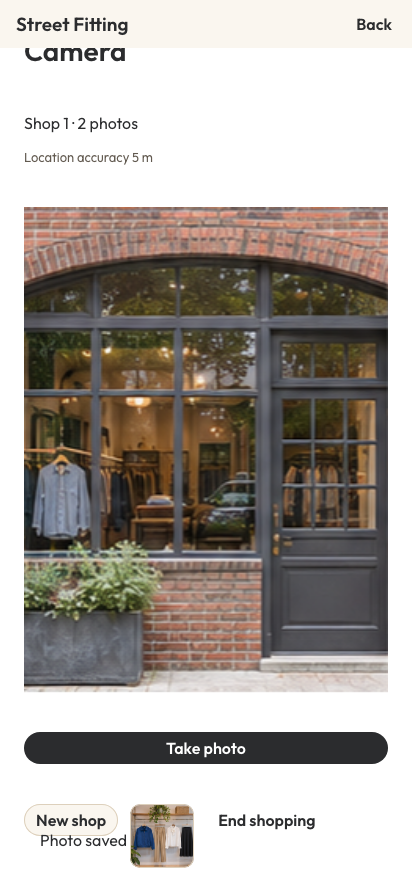
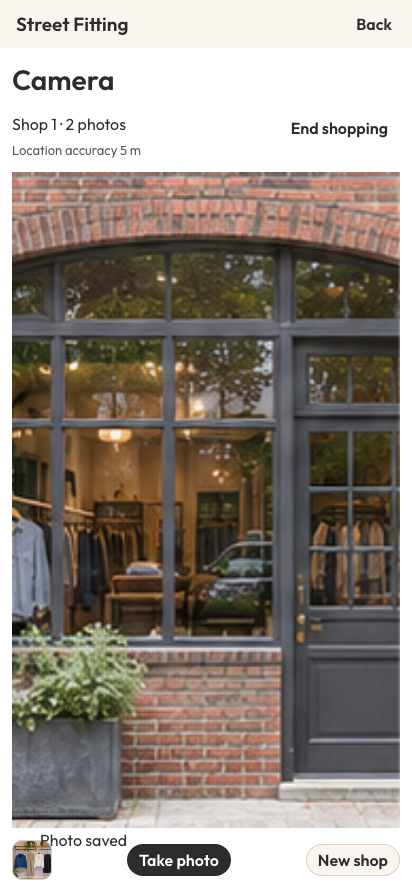
Keep camera shutter on screen and record human-gate scope exclusion

diff --git a/app/src/screens/Shopping.tsx b/app/src/screens/Shopping.tsx
@@ -2,7 +2,7 @@ import {useEffect,useRef,useState} from 'react';
 import type {Route} from '../ui/navigation';
 import type {Photo,Shop} from '../native/contracts';
 import {useUi,useData,listAll} from '../ui/state';
-import {Action,Button,Confirm,EditFields,Empty,HStack,Loading,PhotoView,Problem,Section,Text,Thumbnail,VStack} from '../ui/components';
+import {Action,Button,Confirm,EditFields,Empty,Heading,HStack,Loading,PhotoView,Problem,Section,Text,Thumbnail,VStack} from '../ui/components';
 
 function failureCode(error:unknown):string {
   return typeof error==='object'&&error!==null&&'code'in error?String(error.code):'unknown';
@@ -111,12 +111,16 @@ export function Capture({route}:{route:Extract<Route,{name:'capture'}>}) {
     return()=>{active=false;observer?.disconnect();window.removeEventListener('resize',resize);window.removeEventListener('scroll',resize,true);void withCamera(()=>services.capture.closePreview()).catch(()=>{});ancestors.forEach((element,index)=>{element.style.background=backgrounds[index];});};
   },[services,purpose,route.purpose,route.shopId,attempt,recording]);
   if(purpose==='shopping'&&session&&session.phase!=='recording')return <Empty title="Shopping mode is off"><Text>Start shopping from Home before taking shop photos.</Text><Button label="Home" onClick={()=>popTo('home')}/></Empty>;
-  return <>
-    <VStack gap={3}>{purpose==='shopping'?<><Text>Shop {session?.shop?.n??'—'} · {session?.photos??0} photos</Text><Text type="supporting">{session?.latestFix?`Location accuracy ${Math.round(session.latestFix.accuracyM)} m`:'Waiting for location…'}</Text></>:<Text>{purpose==='self'?'Stand back so your full body is visible. Your original photo stays on this device.':purpose==='storefront'?'Fit the whole shop front in the frame. Taking this photo uses your current location once; it does not start a shopping trail.':'Photograph one wardrobe piece.'}</Text>}</VStack>
-    <VStack ref={view} role="img" aria-label="Camera preview" width="100%" minHeight="45dvh" style={{background:'transparent',aspectRatio:'3 / 4',position:'relative'}}/>
-    {error?<Problem message={error==='camera_permission_denied'?'Camera access is off. Allow access in device settings, then try again.':'The camera preview could not start. Try again or return to your saved photos.'} retry={()=>setAttempt(value=>value+1)}/>:!ready?<Loading/>:null}
-    {purpose==='shopping'&&banner&&session?.shop&&<Section title={`Shop ${session.shop.n} started`}><Text>This spot is saved.</Text><HStack gap={3} wrap="wrap"><Button label="Storefront photo" variant="secondary" onClick={()=>setStorefront(true)}/><Button label="Add note" variant="secondary" onClick={()=>showSheet({title:`Note for Shop ${session.shop!.n}`,content:<EditFields label={session.shop?.note??''} onSave={note=>services.store.updateShop({id:session.shop!.id,note:note||null})}/>})}/><Button label="Dismiss" variant="ghost" onClick={()=>setBanner(false)}/></HStack></Section>}
-    {storefront&&<Text>Fit the whole shop front in the frame</Text>}
+  return <VStack gap={3} minHeight={0} style={{flex:1}}>
+    <VStack gap={3} minHeight={0} isScrollable style={{flex:1}}>
+      {purpose==='shopping'?<HStack gap={3} hAlign="between" vAlign="start" wrap="wrap"><VStack gap={1}><Text>Shop {session?.shop?.n??'—'} · {session?.photos??0} photos</Text><Text type="supporting">{session?.latestFix?`Location accuracy ${Math.round(session.latestFix.accuracyM)} m`:'Waiting for location…'}</Text></VStack><EndShopping/></HStack>:<Text>{purpose==='self'?'Stand back so your full body is visible. Your original photo stays on this device.':purpose==='storefront'?'Fit the whole shop front in the frame. Taking this photo uses your current location once; it does not start a shopping trail.':'Photograph one wardrobe piece.'}</Text>}
+      {purpose==='shopping'&&banner&&session?.shop&&<VStack gap={2}><Heading level={2}>Shop {session.shop.n} started</Heading><Text>This spot is saved.</Text><HStack gap={2} wrap="wrap"><Button label="Storefront photo" variant="secondary" onClick={()=>setStorefront(true)}/><Button label="Add note" variant="secondary" onClick={()=>showSheet({title:`Note for Shop ${session.shop!.n}`,content:<EditFields label={session.shop?.note??''} onSave={note=>services.store.updateShop({id:session.shop!.id,note:note||null})}/>})}/><Button label="Dismiss" variant="ghost" onClick={()=>setBanner(false)}/></HStack></VStack>}
+      {storefront&&<Text>Fit the whole shop front in the frame</Text>}
+      <VStack ref={view} role="img" aria-label="Camera preview" width="100%" minHeight="25dvh" style={{background:'transparent',position:'relative',flex:1}}/>
+      {error?<Problem message={error==='camera_permission_denied'?'Camera access is off. Allow access in device settings, then try again.':'The camera preview could not start. Try again or return to your saved photos.'} retry={()=>setAttempt(value=>value+1)}/>:!ready?<Loading/>:null}
+    </VStack>
+    <HStack role="group" aria-label="Camera controls" gap={2} hAlign="between" vAlign="center" wrap="wrap" style={{flexShrink:0,background:'var(--color-surface)'}}>
+    {purpose==='shopping'&&!storefront&&latest&&<Thumbnail src={latest.file} alt="Latest captured garment" label="Latest photo" style={{width:'var(--spacing-10)',height:'var(--spacing-10)'}} onClick={()=>push({name:'pick',photoId:latest.id,mode:'shop'})}/>}
     <Action label={storefront||purpose==='storefront'?'Capture storefront':purpose==='self'?'Use this photo':'Take photo'} disabled={!ready||Boolean(error)} run={async()=>{
       const {asset,photo}=await withCamera(()=>services.capture.takePhoto({kind:storefront||purpose==='storefront'?'storefront':'item'}));
       if(!active.current){if(purpose==='self'||purpose==='wardrobe')await services.media.discard({assetId:asset.id});return;}
@@ -128,5 +132,7 @@ export function Capture({route}:{route:Extract<Route,{name:'capture'}>}) {
       else if(purpose==='storefront'){say('Storefront saved');back();}
       else{if(photo?.kind==='item')setLast(photo);setStorefront(false);if(!storefront)setBanner(false);say(storefront?'Storefront saved':'Photo saved');}
     }}/>
-    {storefront?<Button label="Cancel storefront" variant="ghost" onClick={()=>setStorefront(false)}/>:purpose==='shopping'?<HStack gap={3} wrap="wrap"><Action label="New shop" variant="secondary" run={async()=>{await services.shopping.newShop();setBanner(true);}}/>{latest&&<Thumbnail src={latest.file} alt="Latest captured garment" label="Latest photo" onClick={()=>push({name:'pick',photoId:latest.id,mode:'shop'})}/>}<EndShopping/></HStack>:<Button label="Cancel" variant="ghost" onClick={back}/>}</>;
+    {storefront?<Button label="Cancel storefront" variant="ghost" onClick={()=>setStorefront(false)}/>:purpose==='shopping'?<Action label="New shop" variant="secondary" run={async()=>{await services.shopping.newShop();setBanner(true);}}/>:<Button label="Cancel" variant="ghost" onClick={back}/>}
+    </HStack>
+  </VStack>;
 }

diff --git a/app/src/ui/browser-scenarios.ts b/app/src/ui/browser-scenarios.ts
@@ -23,14 +23,25 @@ export async function runBrowserScenario(scenario:'full'|'states',url:string,out
   let failure:string|null=null;
   const button=(name:string|RegExp)=>page.getByRole('button',{name,exact:typeof name==='string'}).first();
   async function click(name:string|RegExp){await button(name).click();}
+  async function captureControls(state:string){
+    const original=page.viewportSize()!;
+    const shutter=page.getByRole('group',{name:'Camera controls'}).getByRole('button',{name:/^(Take photo|Capture storefront|Use this photo)$/});
+    await expect(shutter).toBeInViewport({ratio:1});
+    await page.setViewportSize({width:360,height:640});
+    await expect(shutter).toBeInViewport({ratio:1});
+    await page.setViewportSize(original);
+    matrix.push({route:'capture',state,passed:true});
+  }
   async function route(name:string,exerciseOffline=true){
     await expect(page.locator(`[data-route="${name}"]`)).toBeVisible();
     await expect.poll(async()=>(await inspect(page)).route).toBe(name);
     routes.add(name);matrix.push({route:name,state:'normal',passed:true});
     await expect(page.getByRole('button',{name:/^(Demo|Walk a step|Go off route|Download result)$/})).toHaveCount(0);
+    if(name==='capture')await captureControls('shutter-visible-without-scroll');
     if(scenario==='states'&&exerciseOffline){
       await context.setOffline(true);
       await expect(page.getByText('You’re offline. Saved photos and pieces are still available.')).toBeVisible();
+      if(name==='capture')await captureControls('offline-shutter-visible-without-scroll');
       matrix.push({route:name,state:'offline',passed:true});
       await context.setOffline(false);
       await expect(page.getByText('You’re offline. Saved photos and pieces are still available.')).toHaveCount(0);
@@ -49,8 +60,9 @@ export async function runBrowserScenario(scenario:'full'|'states',url:string,out
   try{
     await page.goto(url);await route('home');await shot('01-home');
     await click('Start shopping');await route('capture');
-    await click('Storefront photo');await click('Capture storefront');await click('Take photo');
+    await click('Storefront photo');await captureControls('storefront-shutter-visible-without-scroll');await click('Capture storefront');await click('Take photo');
     await expect.poll(async()=>(await inspect(page)).ids.photos.length).toBe(9);
+    await captureControls('thumbnail-shutter-visible-without-scroll');
     await shot('02-capture');await click('End shopping');await confirm('End shopping');await route('home');
     await click('Find it');await route('ask');await page.getByRole('searchbox').fill('a blue jacket');await click('Find');
     await expect.poll(async()=>(await inspect(page)).agent.status,{timeout:30000}).toBe('results');

diff --git a/app/src/ui/Shell.tsx b/app/src/ui/Shell.tsx
@@ -12,6 +12,7 @@ import {useUi} from './state';
 
 export function Shell({children}:{children:ReactNode}) {
   const {route,stack,back,sheet,showSheet,toast,online,services}=useUi();
+  const capturing=route.name==='capture';
   const body=useRef<HTMLElement>(null);
   const backRef=useRef(back);backRef.current=back;
   useEffect(()=>{
@@ -22,11 +23,11 @@ export function Shell({children}:{children:ReactNode}) {
   },[]);
   useEffect(()=>{
     body.current?.scrollIntoView({block:'start'});
-    if(!window.matchMedia('(prefers-reduced-motion: reduce)').matches) body.current?.animate([{opacity:0,transform:'translateX(3%)'},{opacity:1,transform:'translateX(0)'}],{duration:180,easing:'ease-out'});
+    if(route.name!=='capture'&&!window.matchMedia('(prefers-reduced-motion: reduce)').matches) body.current?.animate([{opacity:0,transform:'translateX(3%)'},{opacity:1,transform:'translateX(0)'}],{duration:180,easing:'ease-out'});
     if(!stack.some(entry=>entry.name==='ask'||entry.name==='pick'))void services.agent.cancel().catch(()=>{});
   },[route,stack,services]);
-  return <AppShell variant="surface" contentPadding={6} mobileNav={false} topNav={<TopNav label="Street Fitting navigation" heading={<TopNavHeading heading="Street Fitting"/>} endContent={stack.length>1?<Button label="Back" variant="ghost" onClick={back}/>:undefined}/>} banner={!online?<VStack padding={3}><Text>You’re offline. Saved photos and pieces are still available.</Text></VStack>:undefined}>
-    <VStack gap={10} width="100%" maxWidth="var(--layout-max-width, 70rem)" ref={body} data-route={route.name} style={{marginInline:'auto'}}>
+  return <AppShell variant="surface" contentPadding={capturing?3:6} mobileNav={false} topNav={<TopNav label="Street Fitting navigation" heading={<TopNavHeading heading="Street Fitting"/>} endContent={stack.length>1?<Button label="Back" variant="ghost" onClick={back}/>:undefined}/>} banner={!online?<VStack padding={3}><Text>You’re offline. Saved photos and pieces are still available.</Text></VStack>:undefined}>
+    <VStack gap={capturing?3:10} width="100%" height={capturing?'100%':undefined} minHeight={capturing?0:undefined} maxWidth="var(--layout-max-width, 70rem)" ref={body} data-route={route.name} style={{marginInline:'auto'}}>
       <Heading level={1}>{titles[route.name]}</Heading>
       {children}
     </VStack>

diff --git a/verification/results/2026-11-04-s08-ui/CHECKPOINT.md b/verification/results/2026-11-04-s08-ui/CHECKPOINT.md
@@ -168,3 +168,12 @@ verification/results/2026-11-04-s08-ui/CHECKPOINT.md
 - 검증 harness는 picker sheet가 입력을 가로채지 않는지 확인한 뒤 정확한 기록 좌표의 키보드 prompt를 보낸다. native-web의 정확한 fixture 좌표 비교는 느슨하게 바꾸지 않았다. offline naming 검증 중 공통 route helper가 연결을 다시 켜던 문제도 제거했다.
 - 최종 `npm run lint && npm run build && npx astryx doctor --built dist && npx vitest run`: exit 0, 18 files/228 tests 통과(729ms). 기존 lint 24개·theme-fonts·bundle 경고 유지. 검사용 탭·서버 종료.
 - 남은 범위: native 전체 mock/live E2E, 사람 GT 기반 privacy·품질·provenance·인간 UI 승인. 13개 route 도달을 이 별도 gate들의 합격으로 확대하지 않는다.
+
+## Coordinator 후속: 화면 안의 Camera 셔터
+
+- M1 알림 경로 검증 중 화면 밖 셔터가 발견됐다. 실제 Chromium 390×844에서도 최초 셔터가 y=879.98–911.98로 화면 아래에 있었고, 본문 진입 애니메이션 뒤 native-underlay mock 이미지의 x≈29.98과 실제 preview element x=24가 어긋났다.
+- Camera에만 높이가 정해진 Shell/body와 별도 하단 controls를 사용한다. 상태·새 가게 배너는 preview 위, End shopping은 상태 행, 마지막 사진·셔터·New shop은 하단이다. 긴 본문은 controls와 독립적으로 스크롤하고 Camera 이동 애니메이션은 생략한다. 촬영·저장·native 호출 계약은 바꾸지 않았다.
+- 직접 browser 클릭으로 실제 Photo 저장/썸네일, 새 가게, 외관 모드를 실행했다. 390×844 셔터 y=800–832, 360×640 오프라인 외관 셔터 y=596–628로 스크롤 없이 화면에 있고 preview/underlay 좌표가 일치한다. `capture-viewport.json`과 before/after/offline PNG를 보존했다. 이는 web mock의 실제 UI 증거이지 Android나 실제 모델 품질 승인이 아니다.
+- 기존 browser runner에 일반·외관·사진 썸네일·오프라인 상태의 전체 셔터 viewport 회귀 검사를 넣었다. 412×892 및 360×640에서 검사하며 click 자동 스크롤로 문제를 숨기지 않는다. 최신 full **52개**, states **92개** 관측, 각각 13개 route가 exit 0이다.
+- `npm run lint && npm run build && npx astryx doctor --built dist` exit 0. 기존 lint 24개·theme-fonts·bundle 크기 경고 유지. 이번 UI 변경에 단위 검사를 재실행했다고 주장하지 않는다.
+- 사용자가 사람 입력 대기 작업을 이번 범위에서 제외했다. 이전 절의 사람 GT·승인 및 이에 의존하는 최종 품질/live gate는 미승인 상태로 보존하되 이번 재개의 완료 조건에는 포함하지 않는다. 실제 최신 APK의 viewport 검증은 M1에서 별도로 수행한다.

diff --git a/docs/prd/implementation-handoff-2026-11-04.md b/docs/prd/implementation-handoff-2026-11-04.md
@@ -10,8 +10,9 @@
 - `7e8a9d5`: portable fixture/엄격 replay·review import/validator. 구조 오류 0이지만 사람 승인/GT/배포 가능한 음성/연구 corpus의 외부 선행 조건은 그대로 보존한다. review UI의 polygon anti-alias를 binary mask로 보수적 변환하는 수정도 실제 화면에서 확인했다.
 - `f0213c4`: 실제 경계 계측과 native debug gate, web cross-tab GC 유실 수정, canonical device 오류 및 구형 bootstrap 제거. 실제 Chromium에서 계측 count 증가와 두 탭 소유권/파일 보존을 확인했다. M1의 private Store debug 메서드와 함께 검증 flag를 켜야 observer를 노출한다.
 - S01 M1 gate: 72 pytest + 실제 TCP 22 응답, 외부 호출/요청 파일 쓰기 0. M1 증거 `f237e2a`를 MacBook의 `5169aa8`로 가져왔다.
-- M1 보고: 실제 APK Home·Store 반복 정리·debug gate, 16 KB Android에서 ORT 추론 실행 확인. 원본 22장 비교의 5장 오차와 head detection 실패는 아직 조사 중이며 합격 기준을 낮추지 않았다. native 변경 checkpoint는 실제 검증 후 별도 SHA로 전달한다.
-- 남은 작업: native 원본 입력/전처리 일치, 사람 GT 기반 privacy, 실제 self/provider/wardrobe mask 연결, UI Result 종단, S11 mock/live E2E·16-call PoC·성능/출처·데모. 코드 checkpoint나 synthetic mock 성공을 이 gate들의 합격으로 대체하지 않는다.
+- M1 native `6207b15`를 이 브랜치 `58cca12`로 통합했다. 실제 원본 JPEG/PNG 각각 22장 벡터와 6개 segmentation mask가 엄격 기준을 통과했고, 실제 relay text tower × Android 22장 검색은 top3 7/7이다. CameraX·Store v2·private fixture와 실제 masks 기반 web Result/wardrobe 연결은 각 `2026-11-04-m1-resume/checkpoint.md`, `2026-11-04-s08-ui/CHECKPOINT.md` 증거를 따른다. native 전체 E2E나 사람 privacy 승인을 뜻하지 않는다.
+- **2026-11-05 KST 사용자 범위 변경:** “맥미니에서 사람 입력 대기중인 작업은 이번 작업범위에서 제외”. 사람 head GT·item-mask/분류 검토·자산 공개 승인·사용 동의 영어 녹음 및 그 입력에 의존하는 전체 mock/live E2E·품질/threshold·privacy/provenance 최종 판정·live 데모는 이번 재개 범위에서 제외한다. 제외는 PASS/승인/제품 요구사항 삭제가 아니다. 기존 CLI의 사람 입력 gate와 fail-closed 동작을 유지하며 승인 자료를 만들어 넣지 않는다.
+- 남은 이번 범위는 사람 입력이 필요 없는 실제 native 알림/권한·1시간 FGS 위치 유지·촬영 viewport 검증과 발견된 결함 수정, 양쪽 branch의 명시 SHA 통합 및 증거 기록이다. main/PR 병합은 하지 않는다.
 
 ## 중단 당시 지시와 Git 상태
 

diff --git a/docs/prd/ux/capture.md b/docs/prd/ux/capture.md
@@ -88,6 +88,7 @@
 - 그 밖의 preview 실패(`preview_not_open`, `fixture_empty`, `fixture_invalid` 포함): "The camera preview could not start. Try again or return to your saved photos." 권한 거부로 오인해 설정 변경을 요구하지 않는다.
 - 공통 액션은 "Try again". preview 준비 전/실패 중 셔터는 비활성이다. 실패한 촬영·파일 저장을 Photo 성공으로 세지 않고, 화면을 나가면 preview를 닫는다.
 - 문구는 실제 구현 기록이며 인간 화면 세션 승인은 미확인이다.
+- 실제 Camera는 화면 높이 안에서 preview 영역과 하단 촬영 controls를 나눈다. 새 가게 배너는 preview 위에 있고, 작은 화면/오프라인 배너에서 본문이 길어져도 셔터는 하단에 남는다. "End shopping"은 상태 행, 마지막 사진·셔터·"New shop"은 하단에 둔다. native preview 좌표와 WebView가 어긋나지 않도록 Camera 진입에는 본문 이동 애니메이션을 적용하지 않는다.
 
 ## F-03 가게 방문 구분과 외관 사진
 
